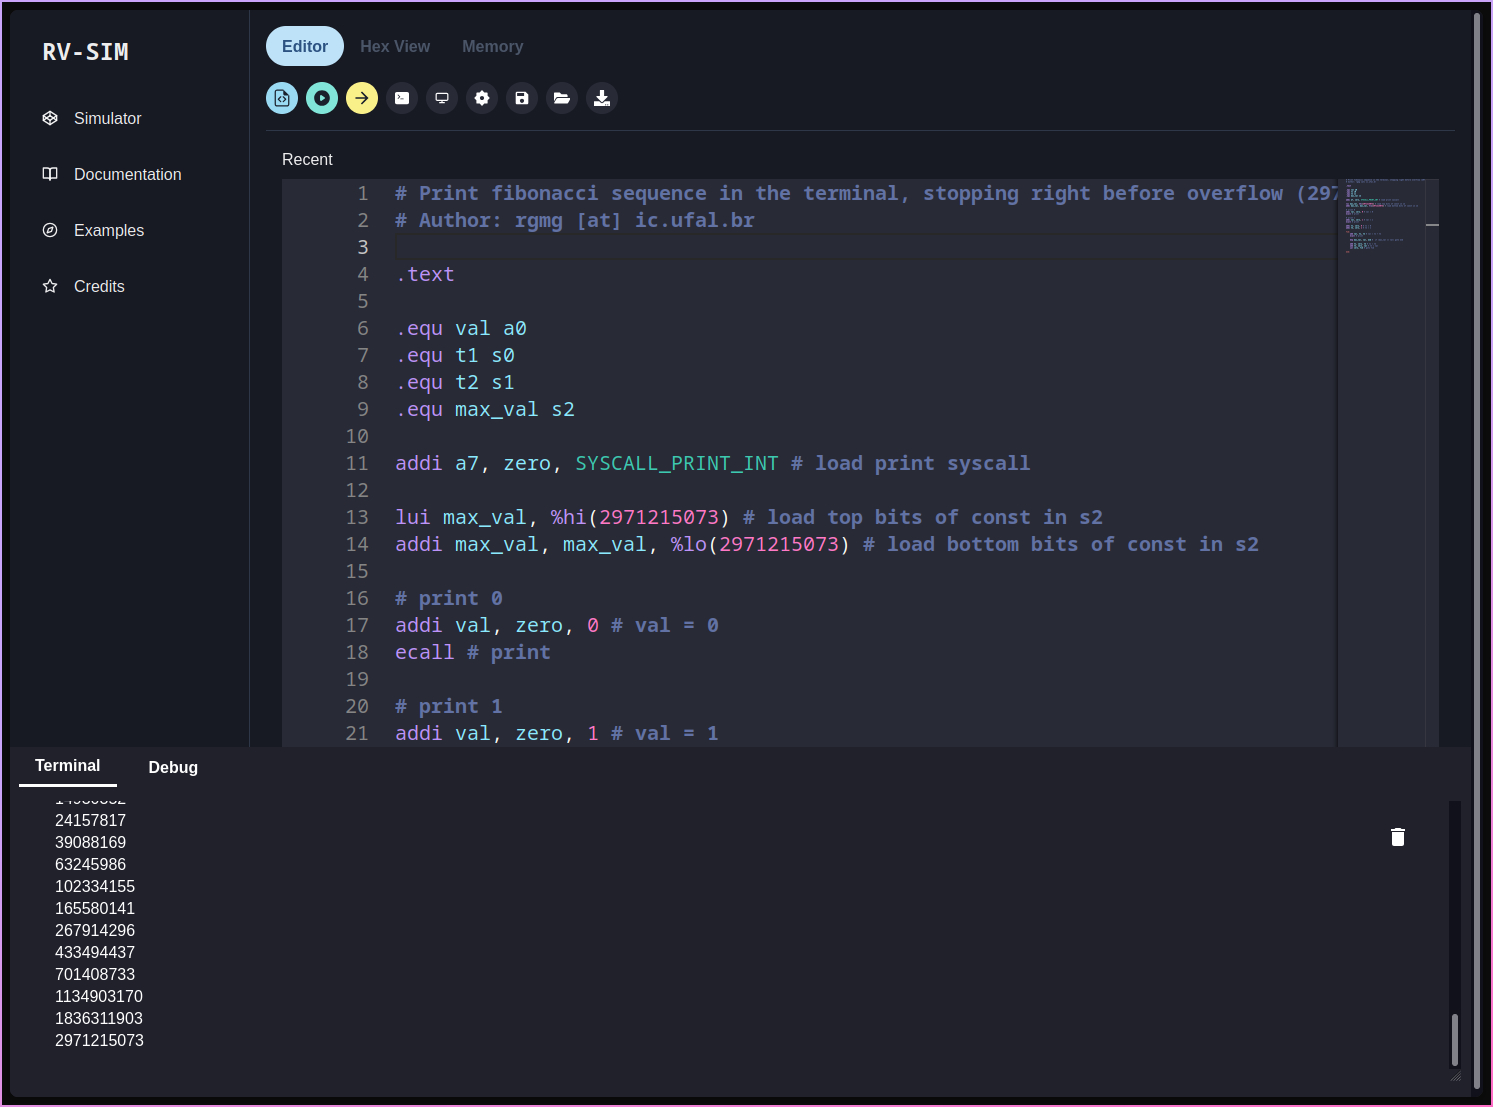
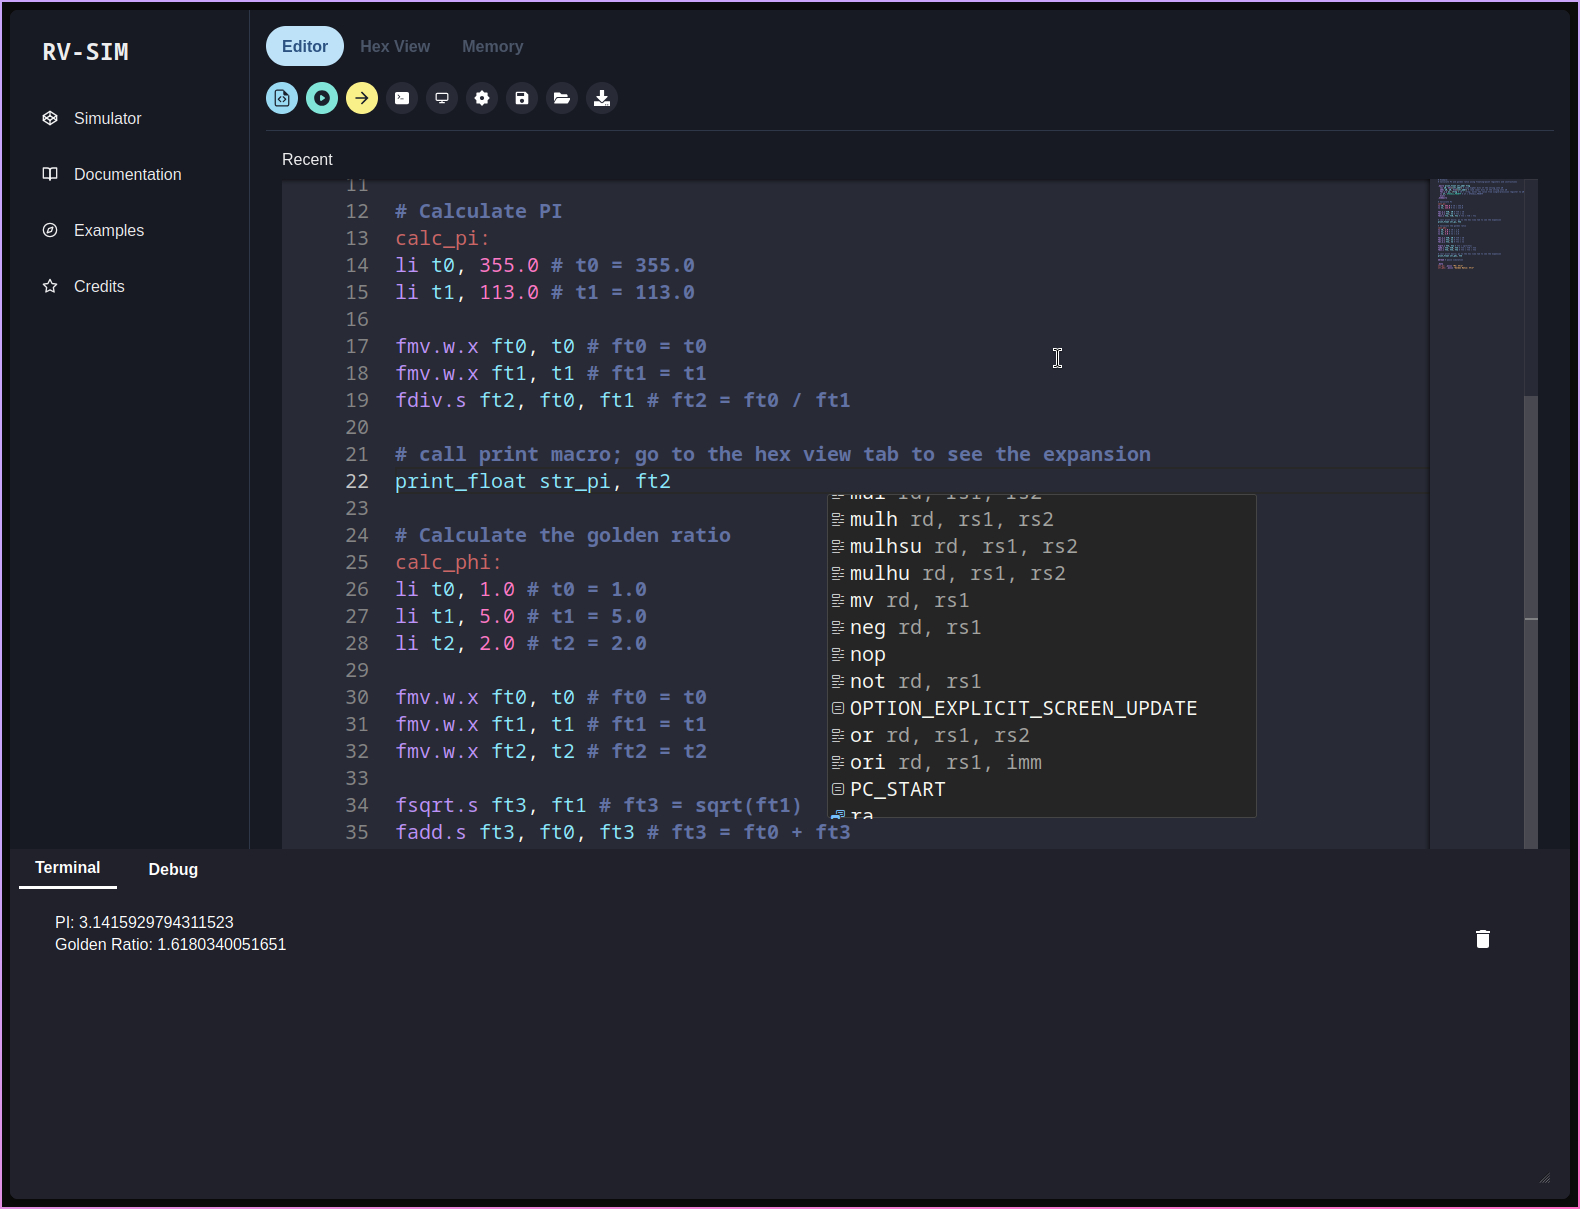
fix: rv32f: fmv.w.x and fsqrt.s

diff --git a/src/hardware/riscv/user/riscv.examples.ts b/src/hardware/riscv/user/riscv.examples.ts
@@ -45,6 +45,60 @@ end:
 });
 
 _rvExamples.push({
+  name: 'Calculate the approximation of PI and golden ratio using floating-point instructions',
+  code: `# Example:
+# Calculate PI and golden ratio using floating-point registers and instructions
+
+.rodata # read-only data section
+str_pi:  .asciz "PI: %f\\n"
+str_phi: .asciz "Golden Ratio: %f\\n"
+
+.macro print_float str_addr freg
+  lui a0, %hi(\\str_addr) # load higher bits of the string into a0
+  addi a0, a0, %lo(\\str_addr) # load lower bits of the string into a0
+  fmv.x.w a1, \\freg # a0 = \\freg; moves the value from floating-point register to a0
+  li a7, SYSCALL_PRINTF # a7 = SYSCALL_PRINTF
+  ecall
+.endmacro
+
+.text # executable section
+
+# Calculate PI
+calc_pi:
+li t0, 355.0 # t0 = 355.0
+li t1, 113.0 # t1 = 113.0
+
+# move values to floating-point registers
+fmv.w.x ft0, t0 # ft0 = t0
+fmv.w.x ft1, t1 # ft1 = t1
+fdiv.s ft2, ft0, ft1 # ft2 = ft0 / ft1 
+
+# call print macro; go to the hex view tab to see the expansion
+print_float str_pi, ft2
+
+# Calculate the golden ratio
+calc_phi:
+li t0, 1.0 # t0 = 1.0
+li t1, 5.0 # t1 = 5.0
+li t2, 2.0 # t2 = 2.0
+
+# move values to floating-point registers
+fmv.w.x ft0, t0 # ft0 = t0
+fmv.w.x ft1, t1 # ft1 = t1
+fmv.w.x ft2, t2 # ft2 = t2
+
+fsqrt.s ft3, ft1 # ft3 = sqrt(ft1)
+fadd.s ft3, ft0, ft3 # ft3 = ft0 + ft3
+fdiv.s ft3, ft3, ft2 # ft3 = ft3 / ft2
+
+# call print macro; go to the hex view tab to see the expansion
+print_float str_phi, ft3
+
+ebreak # pause simulation
+`,
+});
+
+_rvExamples.push({
   name: 'Logo IC-UFAL',
   code: `# Imagem hardcoded do logo do IC-UFAL
 # Autor: rgmg [arroba] ic.ufal.br

diff --git a/src/hardware/riscv/riscv.processor.ts b/src/hardware/riscv/riscv.processor.ts
@@ -465,6 +465,9 @@ export class RVProcessor extends IProcessor<IDecodedRVInstruction> {
               case 0b11100:
                 op = rv_opcode['fmv.x.w'];
                 break;
+              case 0b11110:
+                op = rv_opcode['fmv.w.x'];
+                break;
               case 0b10100:
                 op = rv_opcode['fle.s'];
                 break;
@@ -782,7 +785,7 @@ export class RVProcessor extends IProcessor<IDecodedRVInstruction> {
           nulIdx = nulIdx === -1 ? 255 : nulIdx;
 
           let i = 0;
-          const str = String.fromCharCode(...memory.slice(0, nulIdx)).replace(/%d|%u|%x|%X|%c|%p|%%/g, (match) => {
+          const str = String.fromCharCode(...memory.slice(0, nulIdx)).replace(/%d|%u|%x|%X|%c|%p|%f|%%/g, (match) => {
             i++;
             switch (match) {
               case '%d':
@@ -805,6 +808,8 @@ export class RVProcessor extends IProcessor<IDecodedRVInstruction> {
                     .toUpperCase()
                     .padStart(8, '0')
                 );
+              case '%f':
+                return (biguint32_to_f(this.registerRead(rv_reg.a0 + i))).toString();
               case '%%':
                 return '%';
             }

diff --git a/src/hardware/analyzer/tokenizer.ts b/src/hardware/analyzer/tokenizer.ts
@@ -282,7 +282,6 @@ export function tokenize(line: string, lineNumber: number) {
       }
 
       if (line[j] === '.') {
-        console.log('dot');
         isFloat = true;
         j++;
         value += '.';
@@ -290,7 +289,6 @@ export function tokenize(line: string, lineNumber: number) {
           value += line[j];
           j++;
         }
-        console.log(value);
       }
 
       const v = Number(value) * isNegative;
@@ -303,7 +301,6 @@ export function tokenize(line: string, lineNumber: number) {
       if (isFloat) {
         dataViewHelper.setFloat32(0, v);
         const f = dataViewHelper.getUint32(0);
-        console.log({ type: ETokenType.NUMBER, value: f, lineNumber });
         tokens.push({ type: ETokenType.NUMBER, value: f, lineNumber });
       } else {
         tokens.push({ type: ETokenType.NUMBER, value: v, lineNumber });

diff --git a/src/hardware/riscv/riscv.simulator.ts b/src/hardware/riscv/riscv.simulator.ts
@@ -373,6 +373,7 @@ export class RVSimulator extends ISimulator<RVProcessor> {
         // RV32F instructions that are R-type but rs2 is always zeroed
         if (
           [
+            rv_opcode['fsqrt.s'],
             rv_opcode['fcvt.w.s'],
             rv_opcode['fcvt.wu.s'],
             rv_opcode['fmv.x.w'],
